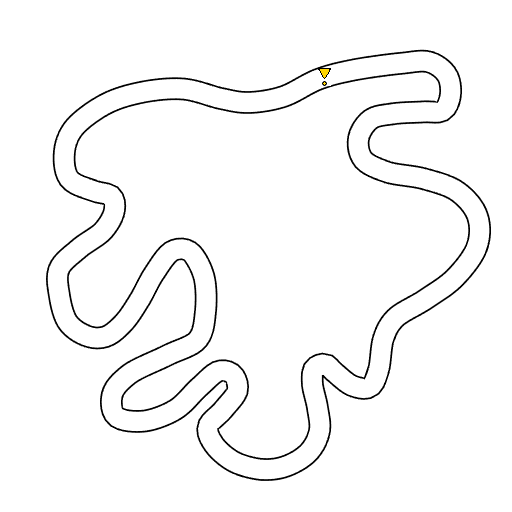
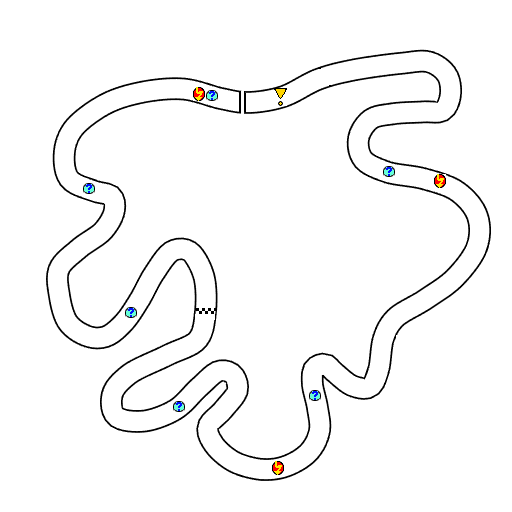
Steinzeit map

diff --git a/sources/mods/mhk_3/minimap_tweaks/README.md b/sources/mods/mhk_3/minimap_tweaks/README.md
@@ -1,9 +1,9 @@
 # Minimap Tweaks for Moorhuhn Kart 3
 
-> Improves minimaps for Moorhuhn Kart 3 (such as making them a bit transparent and fixing some misaligned routes)
+> Improves minimaps for Moorhuhn Kart 3.
 
+- Added map icons (for item boxes, stompers, boosters);
 - Fixed misaligned routes in Pirateninsel and Shlimalaya;
-- Makes minimaps 50 % transparent, to improve visibility;
 
 ## Installation
 
